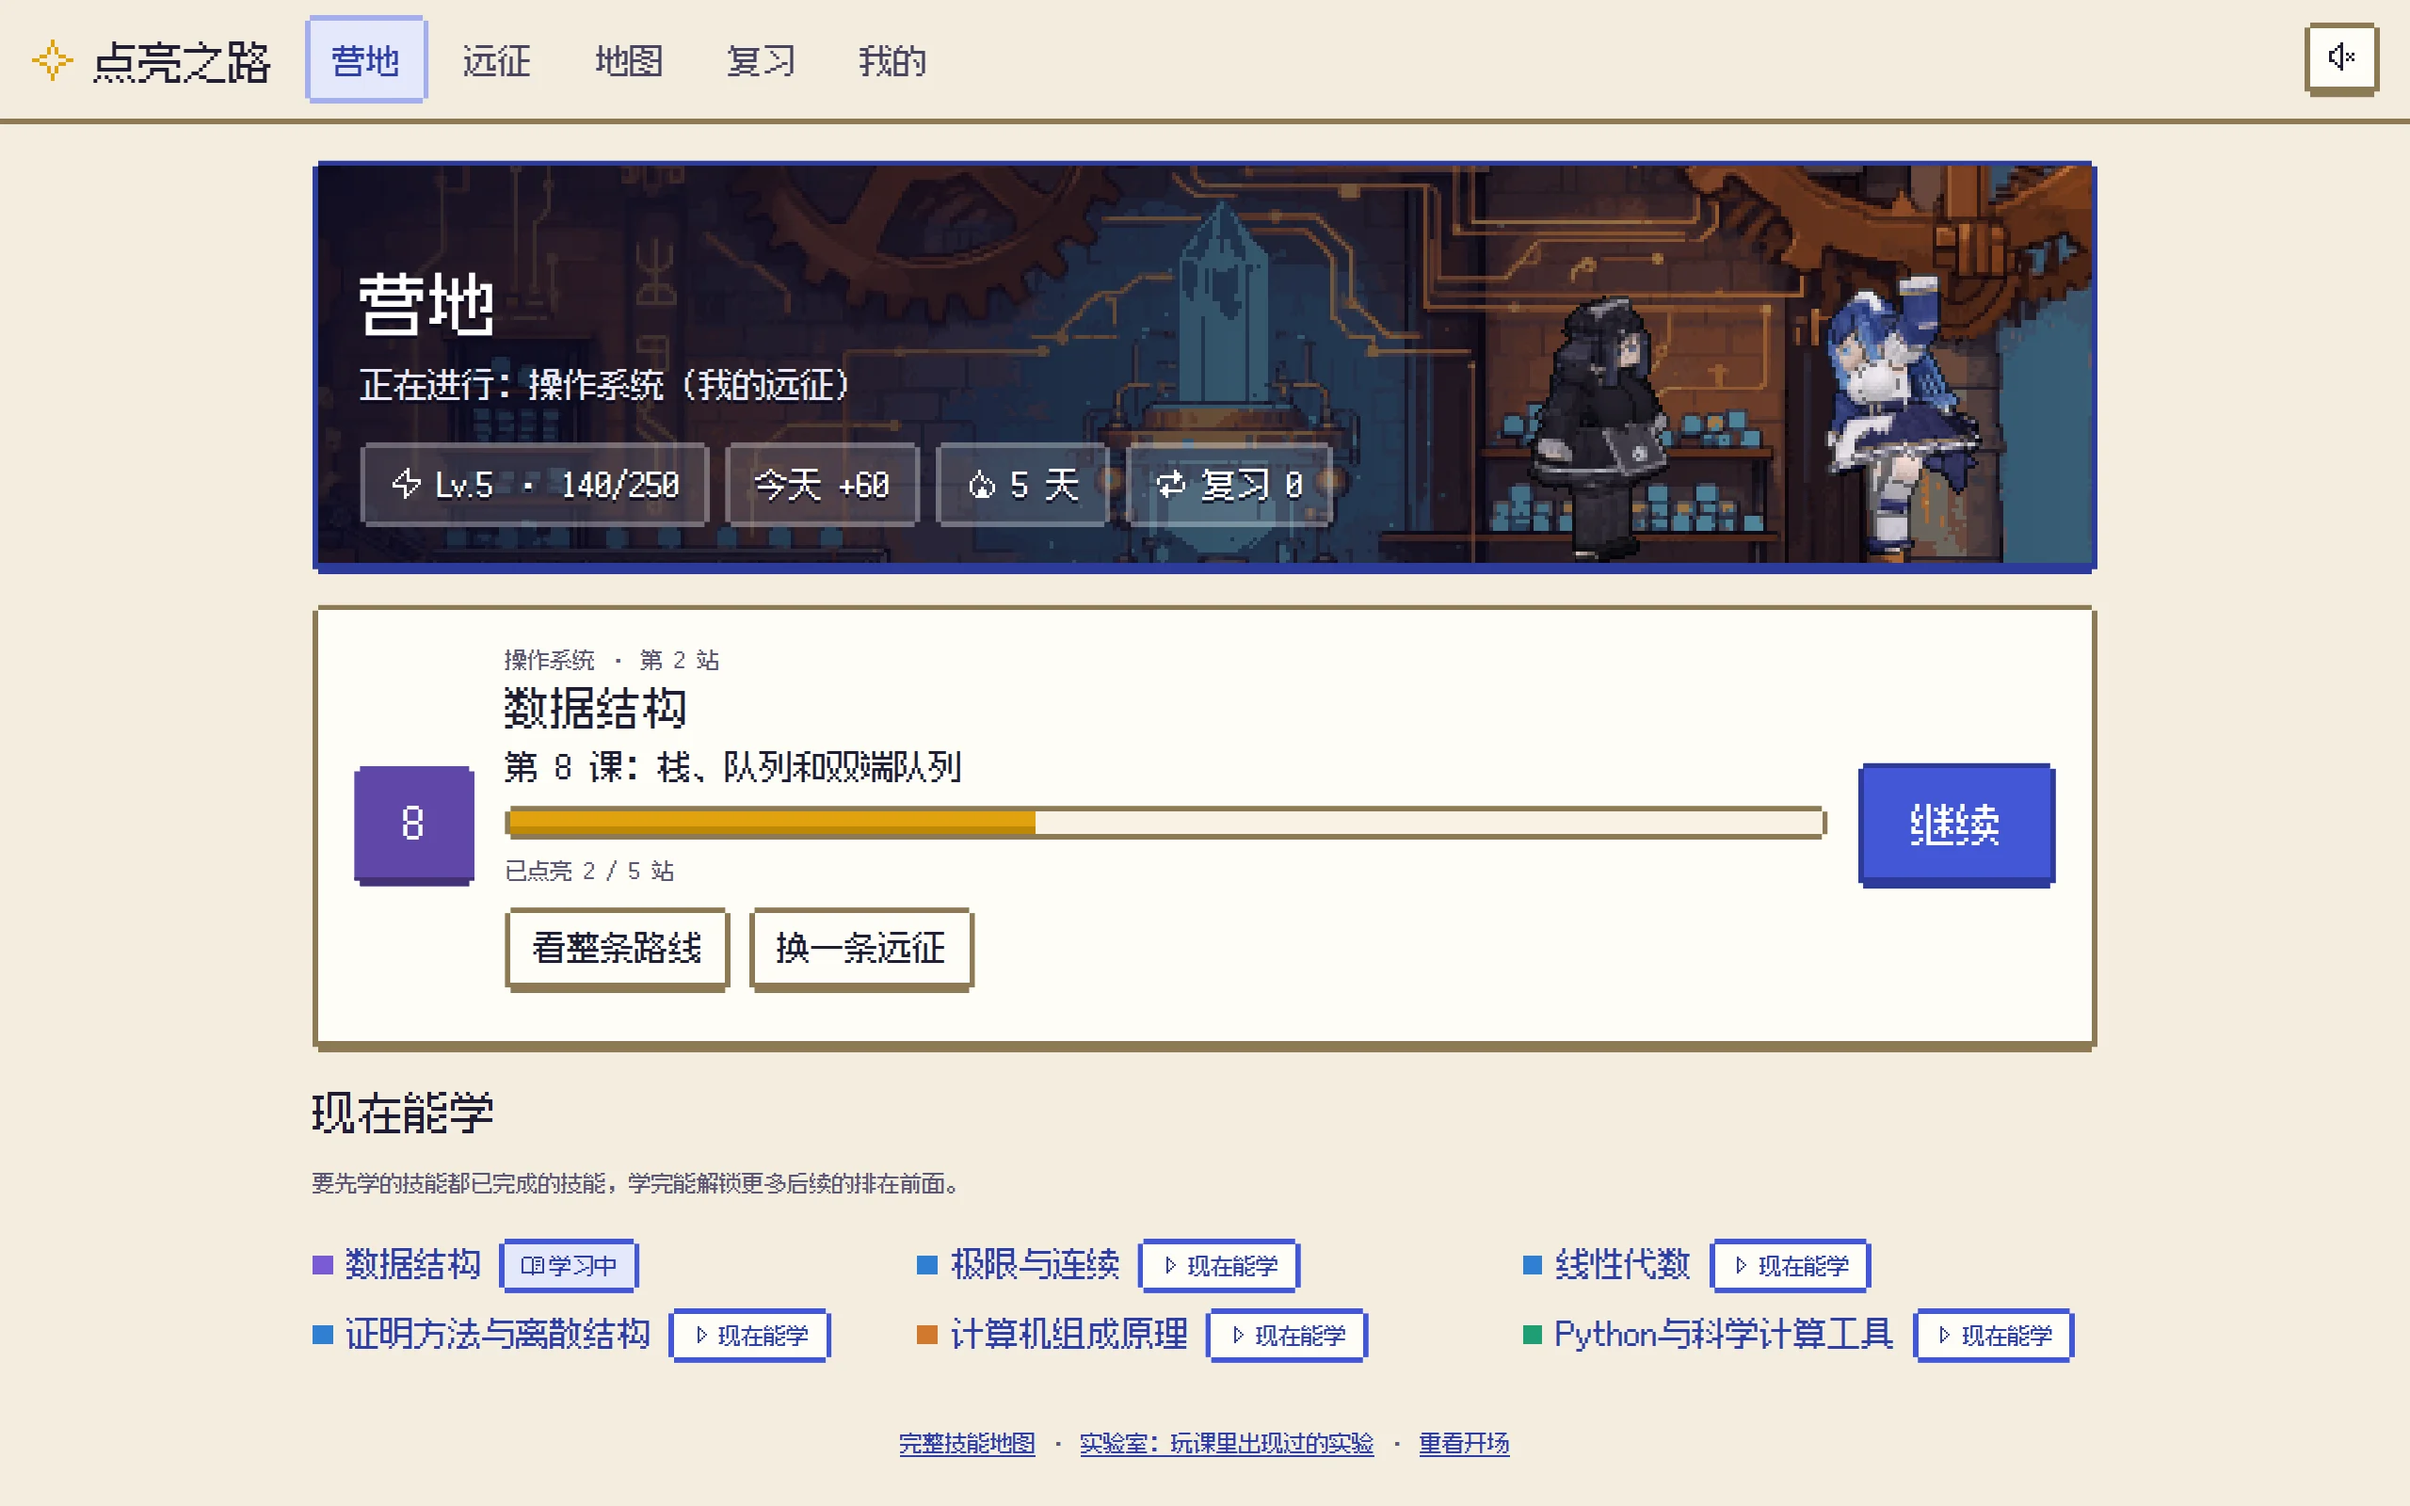
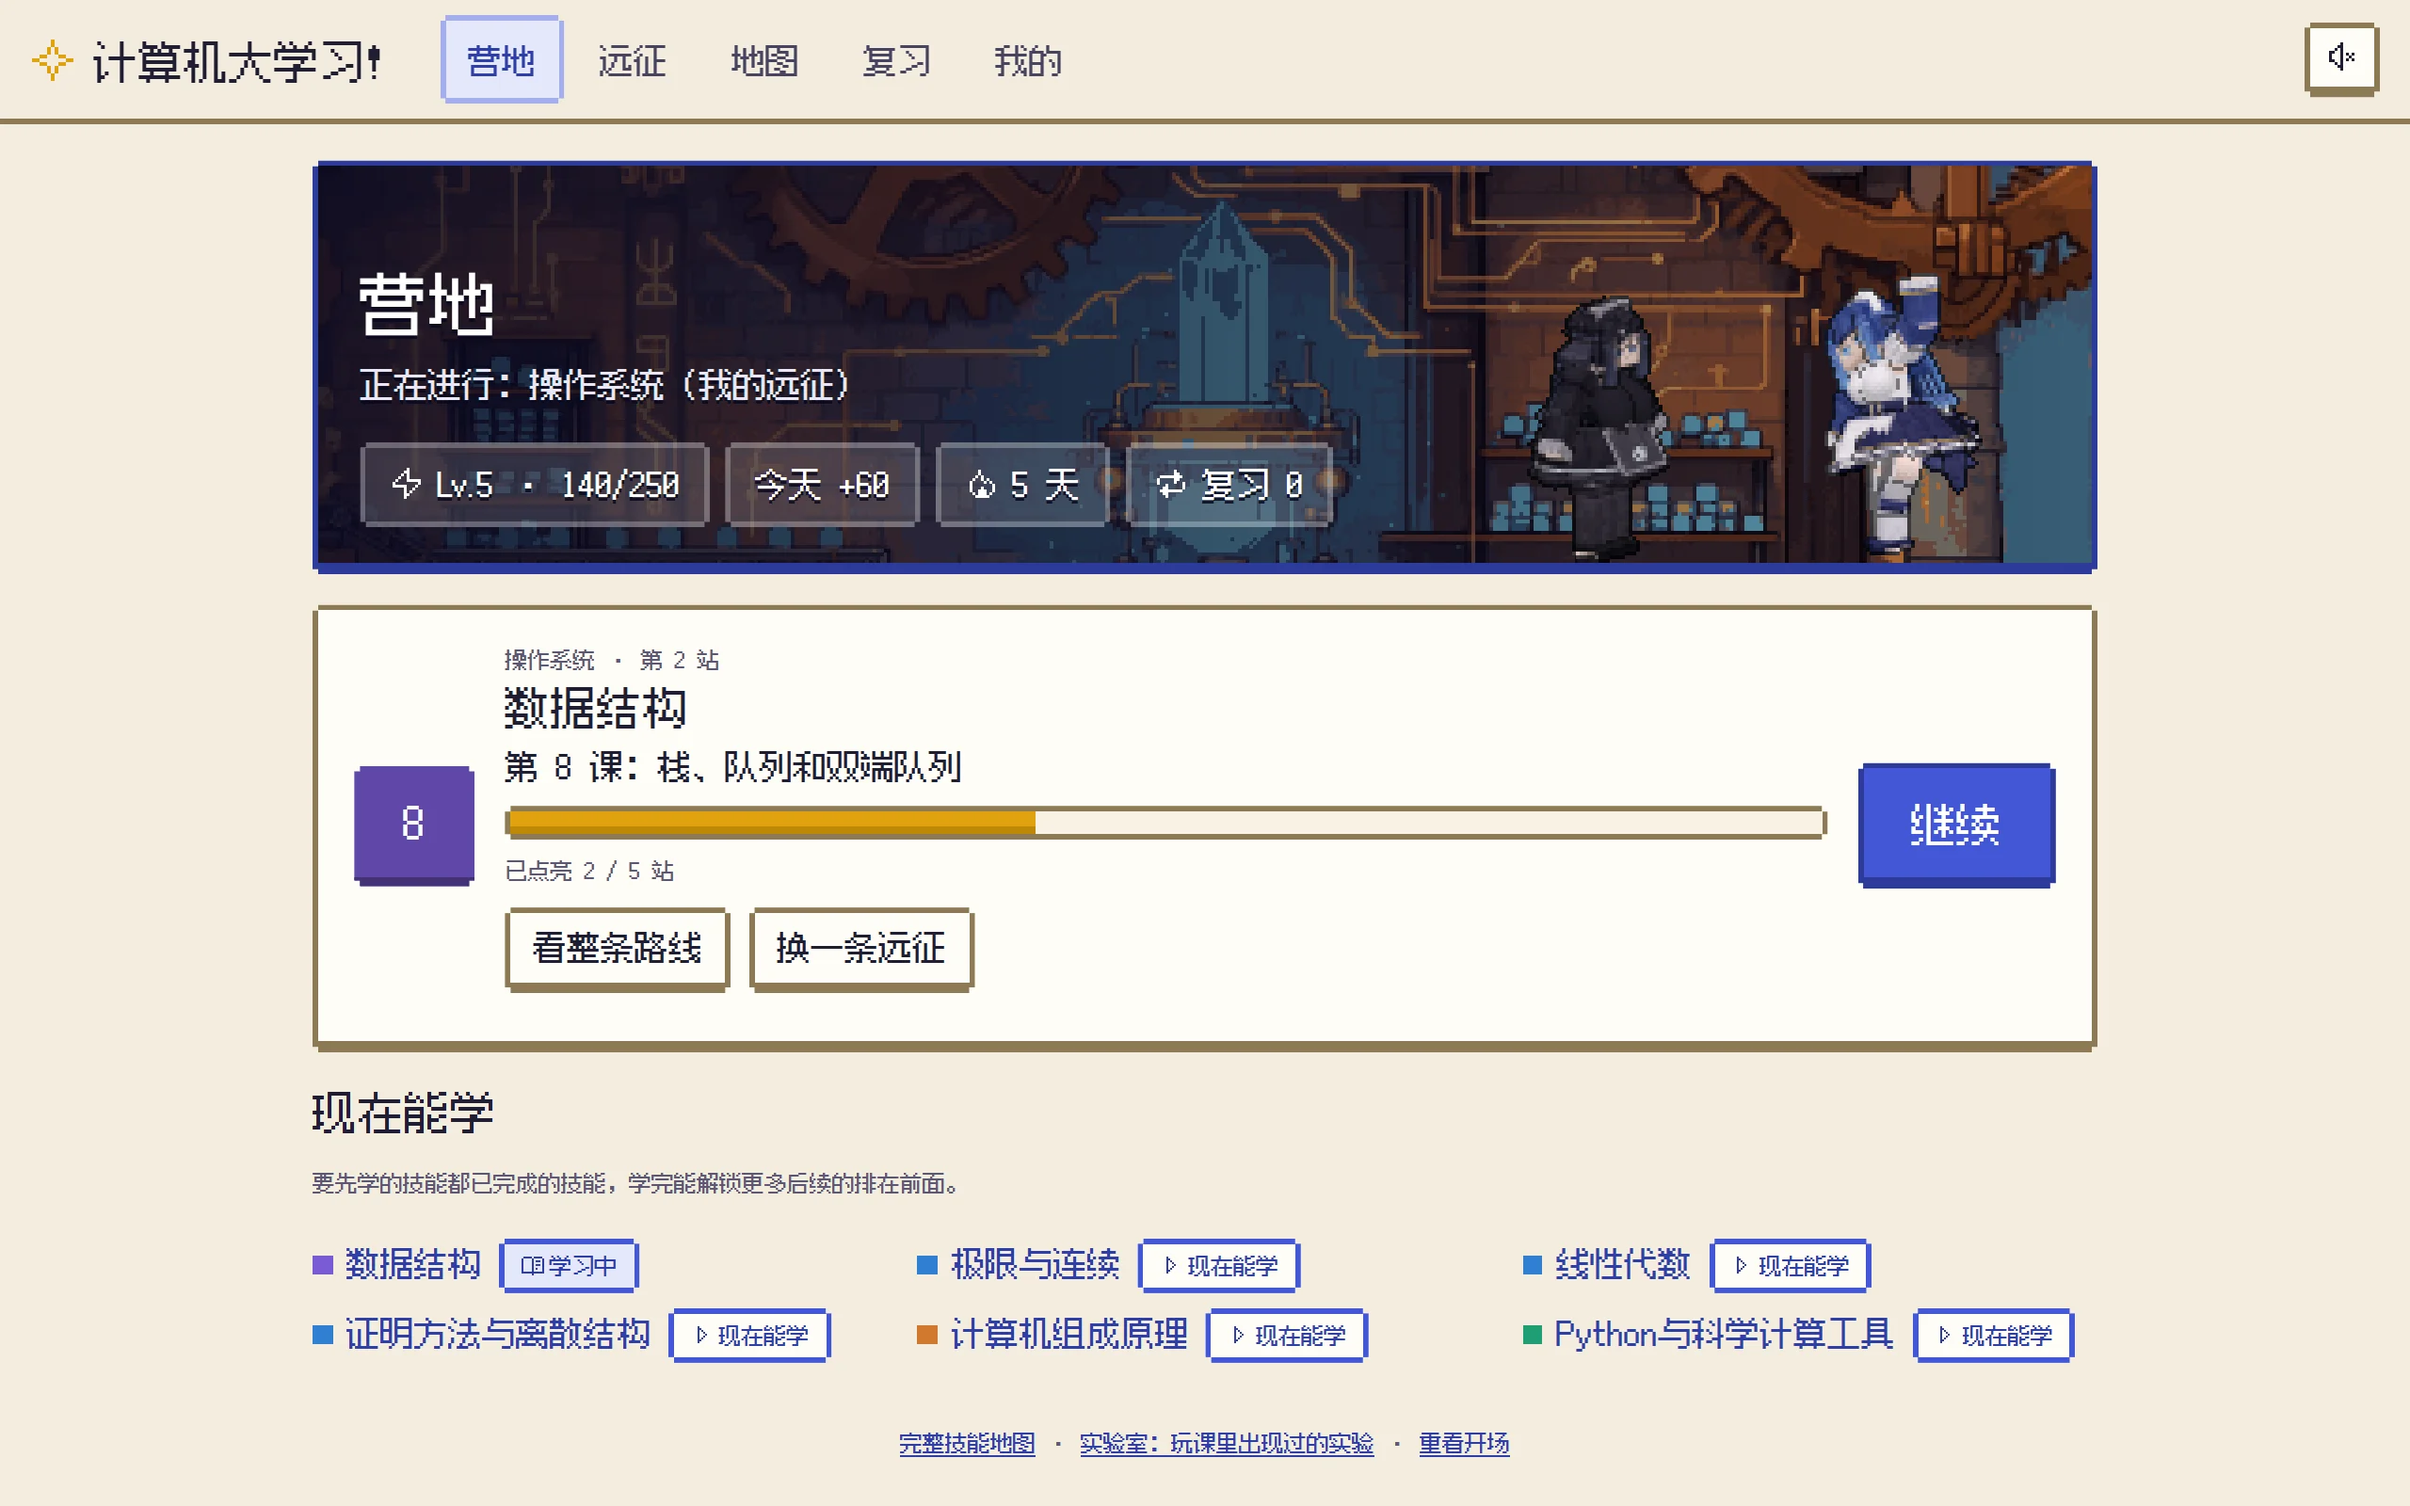
v1.3.1
Snapshot of the author's workspace at 91af2a5b.

Changed region(s): [[0.0312, 0.0, 0.4375, 0.0938]]

diff --git a/docs/promo-video-v2.md b/docs/promo-video-v2.md
@@ -1,6 +1,6 @@
 # 宣传片第二版：方案
 
-状态：**方案已定，还没开工**（2026-11-05）。做完后本文件改写成和 [promo-video.md](promo-video.md) 一样的“怎么重新生成”说明。
+状态：**方案已定，宣传片还没开工**（2026-11-05）。改名已在 1.3.1 完成（见下文“改名”）。做完后本文件改写成和 [promo-video.md](promo-video.md) 一样的“怎么重新生成”说明。
 
 要做两个版本，画面骨架共用：
 
@@ -114,6 +114,13 @@
 
 ## 改名：点亮之路 → 计算机大学习！
 
+**已完成**：1.3.1 版（提交 `9ceda1c2`）。写法约定：
+- 标题写《计算机大学习！》：开场标题卡、顶栏、浏览器标签、README、LICENSE、GitHub 发布标题。
+- 系统里的名字去掉感叹号，写“计算机大学习”：安卓桌面、Windows 开始菜单和 `productName`、APK 和导出存档的文件名。
+- 宣传片里的 Logo 用带感叹号的标题写法。
+
+下面是改名前的分析，留作记录。
+
 为什么要改：已经有一款手游叫《点亮之路》（[九游页面](https://www.9game.cn/dlzl/)，2017 年就有玩家评论）。新名字由用户提出：一眼看得出是学计算机的；借了“青年大学习”的打卡梗，正好对上多邻国式的连续打卡；没搜到同名的游戏或 App。
 
 要改的（2026-11-05 统计：24 个受版本控制的文件，共 39 处，不含 `src/gen/`）：
@@ -131,9 +138,10 @@
 - 仓库名 `cs-math-skill-game` 不变。
 - 历史记录不改：`docs/releases/*.md`、`reports/`。
 
-要验证的：
-- `productName` 变了以后，Windows 一键安装的目录和开始菜单名会不会变；新安装包是覆盖升级旧版，还是装出第二份。用 `scripts/windows/verify-installer.mjs` 的做法实际装一遍看。
-- 发版本、改版本号都是另外的事，没有用户点头不发布。
+Windows 覆盖升级（1.3.1 时查过 electron-builder 26.18.0 的 NSIS 模板）：
+- 卸载用的注册表键是由 `appId` 算出的 GUID，没变。新安装包按这个键找到旧版，先运行旧版的卸载程序（`uninstallOldVersion`），不会装出两份。
+- 一键安装、只装给当前用户时，安装目录名取程序的包名（`sanitizedName`），不取 `productName`，所以安装目录不变。
+- 开始菜单的快捷方式名跟 `productName` 走，旧名字的快捷方式会被替换。
 
 ## 技术做法
 
@@ -164,7 +172,7 @@
 ## 做的顺序和验收
 
 1. 问用户活动规则：截止日期、画面比例、分区、话题。
-2. 改名，单独提交一次。
+2. ~~改名~~：已在 1.3.1 完成。
 3. 台词给用户定稿；广告版两个声音各合成一句给用户听。
 4. 配乐候选 2–3 首给用户听，定 PV 版和广告版各用哪首。
 5. **15 秒样片**（S1–S3，PV 版）：用户确认动效对路再往下做。

diff --git a/docs/android.md b/docs/android.md
@@ -57,6 +57,11 @@ node scripts/windows/build-installer.mjs   # 先要 publish-github.mjs 生成了
 - 打完后自动检查两件事：用 electron-builder 下载的 7-Zip 和它自带的 asar 把安装包拆开，里面的游戏要和发布的逐文件相同（`scripts/windows/verify-installer.mjs`，发布脚本上传前也跑一遍）；再无界面地启动解包出的程序，用 DevTools 端口确认它显示出游戏的第一屏。
 - 桌面入口 `scripts/windows/main.cjs`：游戏文件经私有的 `skill-game://` 协议提供（安全上下文，存档和读文件跟网页版一样），`game/` 以外的路径一律拒绝；教材和课程链接用系统浏览器打开。存档在 `%APPDATA%\cs-math-skill-game`，卸载时保留。
 - 没有代码签名证书，第一次运行时 Windows SmartScreen 可能提示“未知发布者”，点“仍要运行”。程序不自动更新，新版本要重新下载安装（覆盖安装，进度保留）。
+- 改名不影响覆盖安装（1.3.1 从“点亮之路”改成“计算机大学习”时查过 NSIS 模板）：
+  - 新安装包按 `appId` 算出的卸载注册表键找到旧版，先卸掉再装，不会装出两份。
+  - 一键、只装给当前用户时，安装目录取程序包名，不取 `productName`，所以目录不变。
+  - 只有开始菜单快捷方式的名字跟 `productName` 走。
+  - 存档目录写死在 `main.cjs` 里，也不跟名字走。
 
 ## 文件在哪
 
